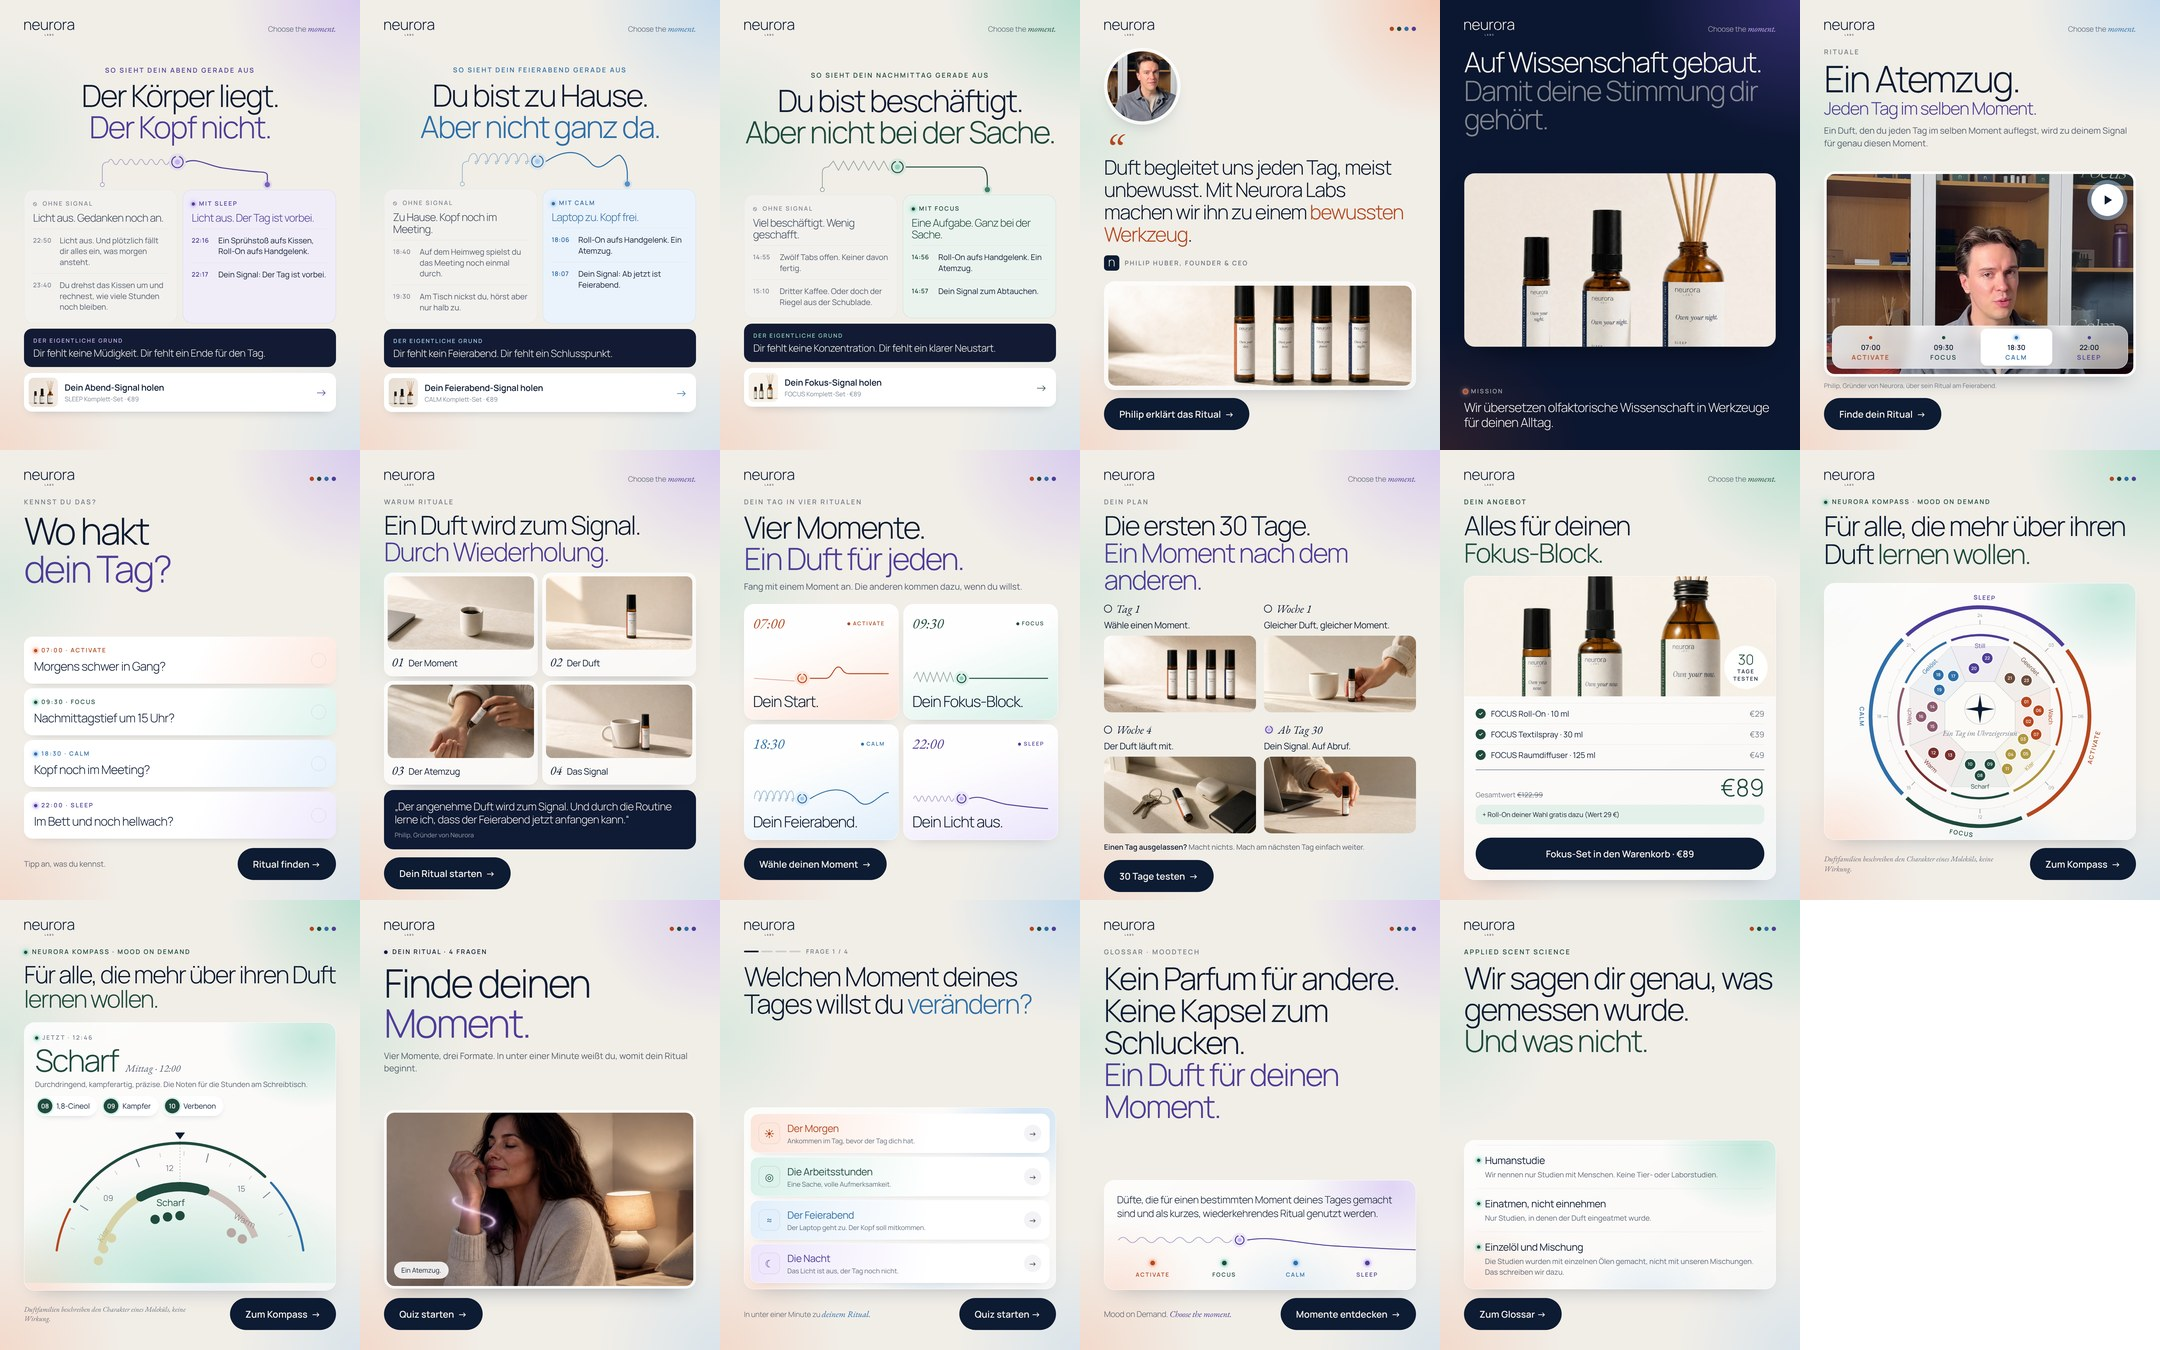
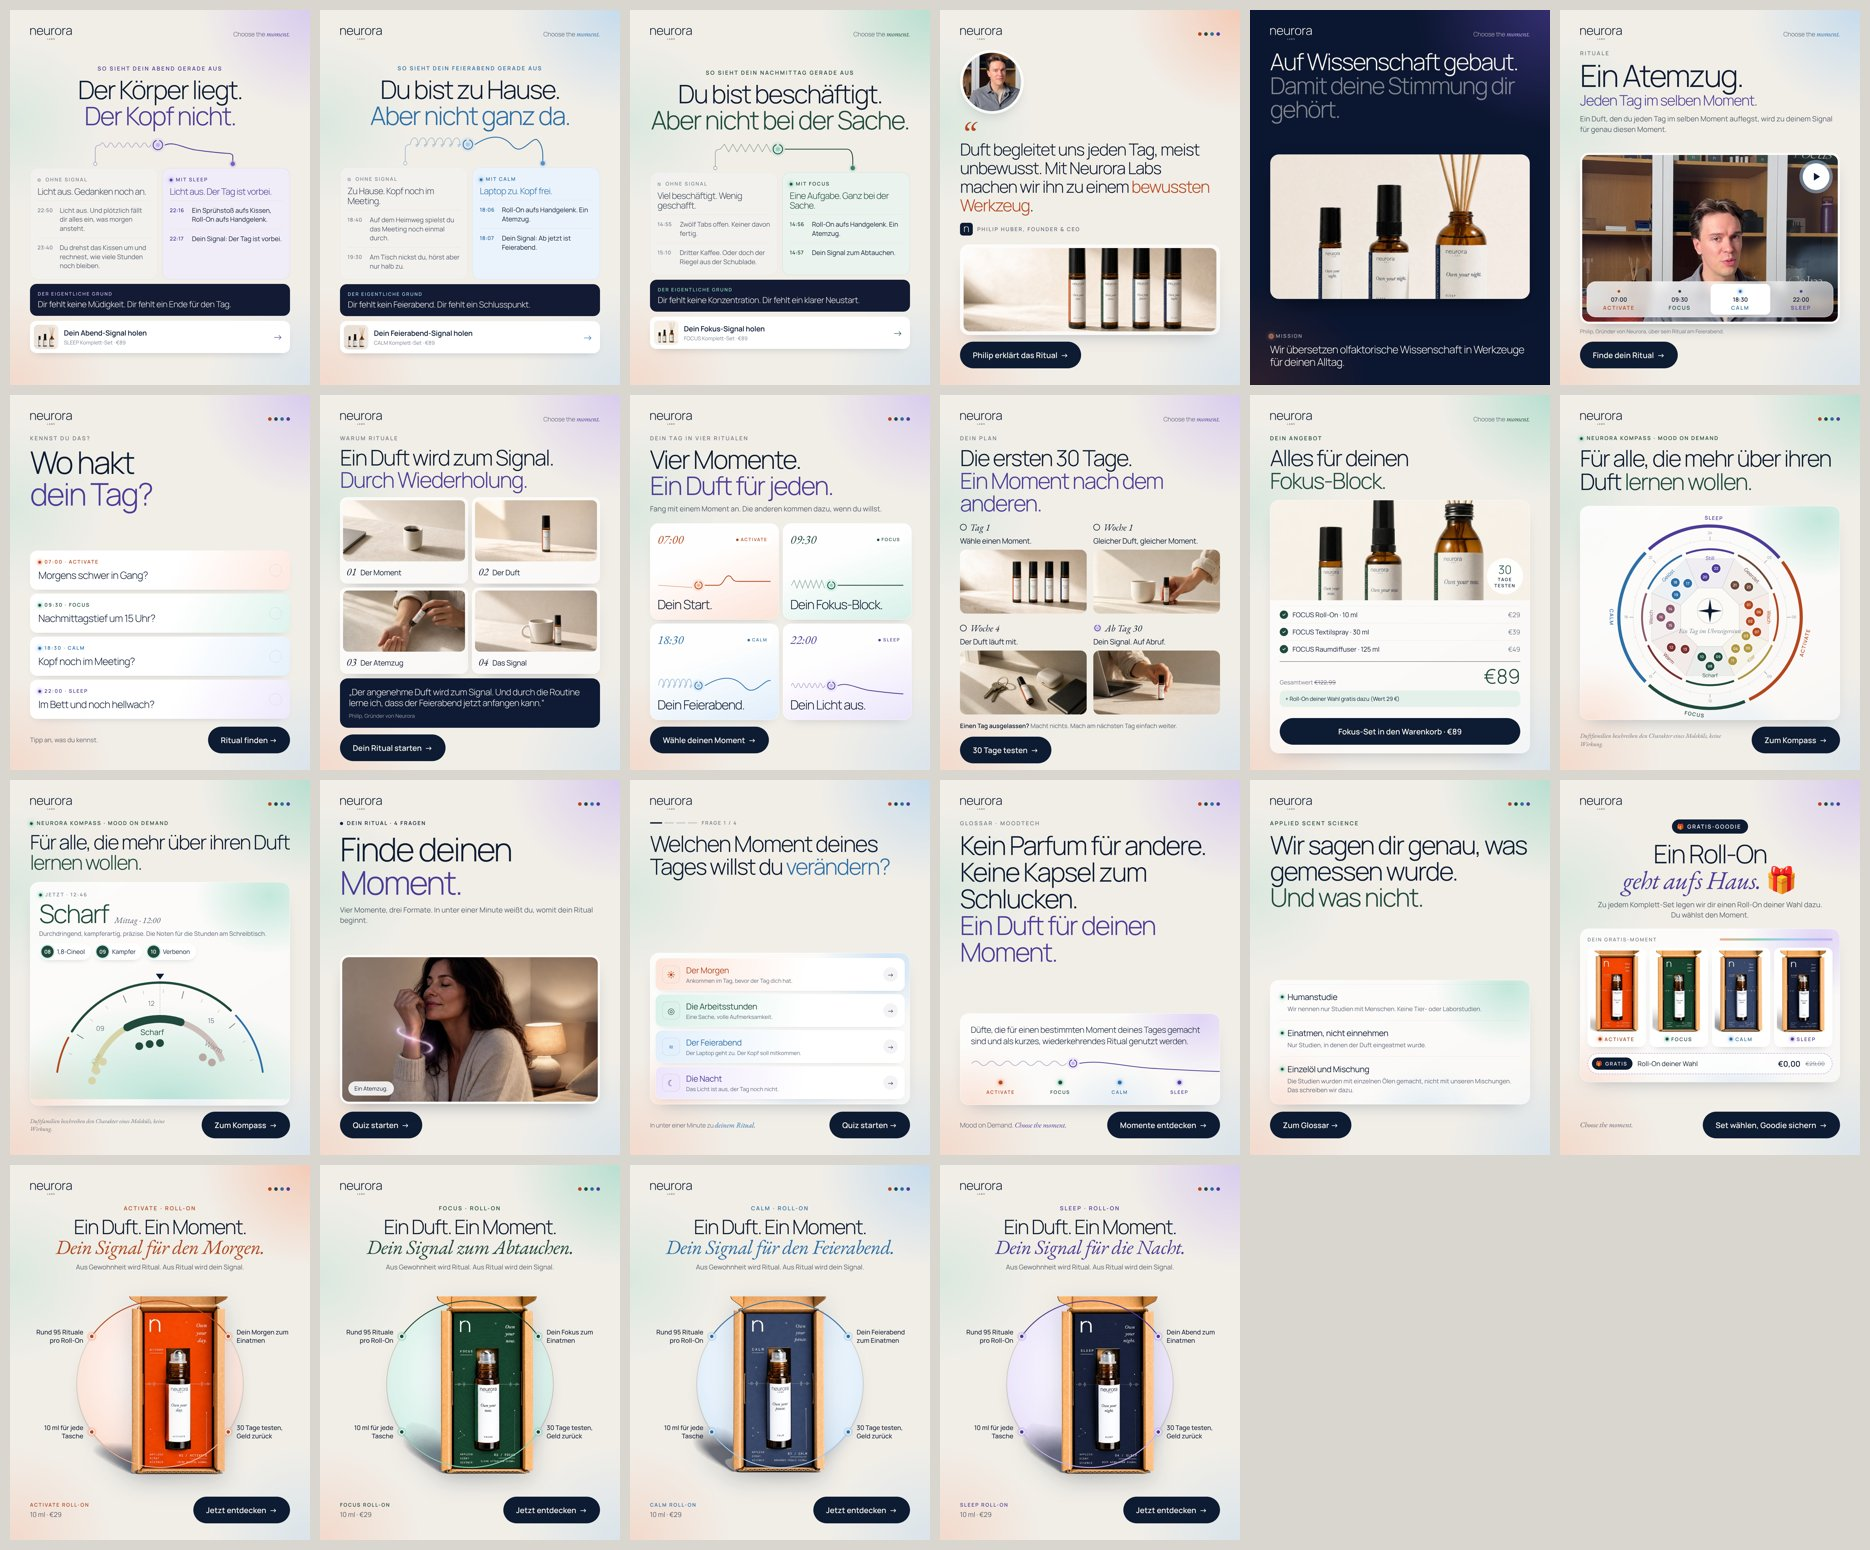
Meta ads round 3: Gratis-Goodie offer ad and Roll-On signal-ring series for all four states
Claude-Session: https://claude.ai/code/session_01QRoExmTLVyJJqyXzJd8417

diff --git a/ads/meta-rollout-2026-11/source/gen3.py b/ads/meta-rollout-2026-11/source/gen3.py
@@ -1,0 +1,109 @@
+#!/usr/bin/env python3
+"""Round 3: 17 Gratis-Goodie + 18 Roll-On series (all four states), Brand Book 2.0 look."""
+import math, os, sys
+from gen import S, A
+from gen2 import page, top, DOTS
+
+ROOT = os.path.dirname(os.path.abspath(__file__))
+ORDER = ("activate", "focus", "calm", "sleep")
+
+EXTRA = """
+.badge{display:inline-flex;align-items:center;gap:12px;background:#0D1B33;color:#F6F3EC;border-radius:999px;padding:12px 24px 12px 18px;font-size:20px;font-weight:600;letter-spacing:.16em;text-transform:uppercase}
+.emo{font-family:'Noto Color Emoji';letter-spacing:0;font-style:normal}
+h1 .it{letter-spacing:-.02em;font-weight:400}
+.moodbar{height:8px;border-radius:99px;background:linear-gradient(90deg,#F6AE8E,#8AD3BD 35%,#A3CCF0 66%,#C5B0F3)}
+"""
+
+def emo(e):
+    return f"<span class='emo'>{e}</span>"
+
+# ---------- 17 Gratis-Goodie ----------
+def ad_goodie(fmt):
+    st = "sleep"
+    tall = fmt == "916"
+    tiles = "".join(
+        f"<div style='flex:1;background:#fff;border-radius:22px;padding:10px 10px 16px;box-shadow:0 14px 30px -24px rgba(13,27,51,.45)'>"
+        f"<img src='{A}nr-box-{s}.jpg' style='display:block;width:100%;aspect-ratio:1/{1.9 if tall else 1.55};object-fit:cover;border-radius:14px'>"
+        f"<div style='display:flex;align-items:center;justify-content:center;gap:10px;margin-top:12px'>"
+        f"<span class='dot' style='--c:{S[s]['c']};--g:{S[s]['g']};width:11px;height:11px'></span>"
+        f"<span class='lbl' style='color:{S[s]['c']}'>{S[s]['name']}</span></div></div>" for s in ORDER)
+    body = (top(st, "dots")
+      + "<div class='center'>"
+        f"<span class='badge'>{emo('🎁')} Gratis-Goodie</span>"
+        f"<h1 style='margin-top:26px;font-size:{104 if tall else 92}px'>Ein Roll-On<span class='acc it'>geht aufs Haus. {emo('🎁')}</span></h1>"
+        "<p class='lead' style='margin:22px auto 0;max-width:820px'>Zu jedem Komplett-Set legen wir dir einen Roll-On deiner Wahl dazu. Du wählst den Moment.</p></div>"
+      + f"<div class='board glow' style='margin-top:{40 if tall else 30}px;padding:26px 26px 28px'>"
+        "<div style='display:flex;justify-content:space-between;align-items:center;margin-bottom:18px'>"
+        "<span class='lbl' style='color:rgba(13,27,51,.55)'>Dein Gratis-Moment</span><span class='moodbar' style='width:46%'></span></div>"
+        f"<div style='display:flex;gap:14px'>{tiles}</div>"
+        "<div style='display:flex;align-items:center;gap:18px;margin-top:22px;border:2px dashed #B9A6EE;border-radius:999px;padding:14px 26px 14px 14px;background:rgba(255,255,255,.7)'>"
+        f"<span class='badge' style='font-size:18px;padding:10px 18px 10px 14px'>{emo('🎁')} Gratis</span>"
+        "<span style='font-size:24px;flex:1'>Roll-On deiner Wahl</span>"
+        "<span style='font-size:28px;font-weight:600'>€0,00</span><s style='font-size:21px;color:rgba(13,27,51,.5)'>€29,00</s></div></div>"
+      + "<div class='grow'></div>"
+      + "<div style='display:flex;align-items:center;justify-content:space-between;gap:24px;margin-top:26px'>"
+        "<p class='it' style='font-size:26px;line-height:1.3;color:rgba(13,27,51,.65)'>Choose the moment.</p>"
+        "<div class='btn'>Set wählen, Goodie sichern &nbsp;→</div></div>")
+    return page("Gratis-Goodie", st, fmt, body, EXTRA)
+
+# ---------- 18 Roll-On: Signal ring (all states) ----------
+RO = {
+    "activate": dict(sig="Dein Signal für den Morgen.", air="Dein Morgen zum Einatmen"),
+    "focus":    dict(sig="Dein Signal zum Abtauchen.", air="Dein Fokus zum Einatmen"),
+    "calm":     dict(sig="Dein Signal für den Feierabend.", air="Dein Feierabend zum Einatmen"),
+    "sleep":    dict(sig="Dein Signal für die Nacht.", air="Dein Abend zum Einatmen"),
+}
+
+def ring(st, W, D):
+    c = S[st]; r = D / 2; cx = W / 2; cy = r + 30; H = D + 60
+    def pt(deg):
+        a = math.radians(deg); return cx + r * math.sin(a), cy - r * math.cos(a)
+    def arc(d0, d1):
+        x0, y0 = pt(d0); x1, y1 = pt(d1)
+        return f"M {x0:.1f} {y0:.1f} A {r} {r} 0 {1 if (d1 - d0) % 360 > 180 else 0} 1 {x1:.1f} {y1:.1f}"
+    calls = [(305, "Rund 95 Rituale pro Roll-On"), (235, "10 ml für jede Tasche"), (55, RO[st]["air"]), (125, "30 Tage testen, Geld zurück")]
+    svg = (f"<svg width='{W}' height='{H}' style='position:absolute;left:0;top:0;z-index:2;overflow:visible'>"
+           f"<circle cx='{cx}' cy='{cy}' r='{r}' fill='none' stroke='{c['c']}' stroke-opacity='.28' stroke-width='2'/>"
+           f"<path d='{arc(305, 55)}' fill='none' stroke='{c['c']}' stroke-width='3.5' stroke-linecap='round'/>"
+           f"<path d='{arc(125, 235)}' fill='none' stroke='{c['g']}' stroke-width='3.5' stroke-linecap='round'/>")
+    labels = ""
+    for deg, t in calls:
+        x, y = pt(deg)
+        svg += (f"<circle cx='{x:.1f}' cy='{y:.1f}' r='17' fill='{c['g']}' opacity='.45'/>"
+                f"<circle cx='{x:.1f}' cy='{y:.1f}' r='8' fill='{c['c']}' stroke='#fff' stroke-width='3'/>")
+        left = deg > 180
+        style = (f"right:{W - x + 30:.0f}px;text-align:right" if left else f"left:{x + 30:.0f}px")
+        labels += (f"<div style='position:absolute;{style};top:{y:.0f}px;transform:translateY(-50%);max-width:{x - 30 if left else W - x - 30:.0f}px;"
+                   f"font-size:23px;line-height:1.3;font-weight:500;z-index:3'>{t}</div>")
+    svg += "</svg>"
+    disc = (f"<div style='position:absolute;left:{cx - r + 4}px;top:{cy - r + 4}px;width:{D - 8}px;height:{D - 8}px;border-radius:50%;"
+            f"background:radial-gradient(circle at 50% 42%,#fff 0%,color-mix(in srgb,{c['g']} 30%,#fff) 62%,color-mix(in srgb,{c['g']} 55%,#fff) 100%);"
+            f"box-shadow:0 40px 80px -50px rgba(13,27,51,.45)'></div>")
+    bh = D + 40
+    img = (f"<img src='{A}nr-box-{st}-cut.png' style='position:absolute;left:50%;transform:translateX(-50%);top:{cy - bh / 2 + 4:.0f}px;height:{bh}px;"
+           f"z-index:1;filter:drop-shadow(0 30px 40px rgba(13,27,51,.18))'>")
+    return f"<div style='position:relative;width:{W}px;height:{H}px;margin:0 auto'>{disc}{img}{svg}{labels}</div>"
+
+def ad_rollon(st, fmt):
+    c = S[st]; tall = fmt == "916"
+    W = 924 if tall else 936
+    D = 640 if tall else 600
+    body = (top(st, "dots")
+      + "<div class='center'>"
+        f"<div class='eyebrow'>{c['name']} · Roll-On</div>"
+        f"<h1 style='margin-top:16px;font-size:{78 if tall else 72}px'>Ein Duft. Ein Moment.<span class='acc it'>{RO[st]['sig']}</span></h1>"
+        "<p class='lead' style='margin-top:18px;font-size:24px'>Aus Gewohnheit wird Ritual. Aus Ritual wird dein Signal.</p></div>"
+      + "<div class='grow'></div>" + ring(st, W, D) + "<div class='grow'></div>"
+      + "<div style='display:flex;align-items:center;justify-content:space-between;gap:24px'>"
+        f"<div><div class='lbl' style='color:var(--c)'>{c['name']} Roll-On</div><div style='font-size:24px;margin-top:6px;color:rgba(13,27,51,.7)'>10 ml · €29</div></div>"
+        "<div class='btn'>Jetzt entdecken &nbsp;→</div></div>")
+    return page(f"{c['name']} Roll-On", st, fmt, body, EXTRA)
+
+ADS3 = [("17-gratis-goodie", ad_goodie)] + [
+    (f"18{l}-rollon-{s}", (lambda s: (lambda f: ad_rollon(s, f)))(s)) for l, s in zip("abcd", ORDER)]
+
+if __name__ == "__main__":
+    for key, fn in ADS3:
+        for fmt in ("45", "916"):
+            open(os.path.join(ROOT, f"{key}_{fmt}.html"), "w").write(fn(fmt))
+    print(len(ADS3) * 2, "html files")

diff --git a/ads/meta-rollout-2026-11/source/cutout.py b/ads/meta-rollout-2026-11/source/cutout.py
@@ -1,0 +1,28 @@
+import sys, numpy as np
+from PIL import Image
+from collections import deque
+src, dst = sys.argv[1], sys.argv[2]
+im = np.asarray(Image.open(src).convert('RGB')).astype(np.float32)
+h, w, _ = im.shape
+lum = im.mean(2); sat = im.max(2) - im.min(2)
+cand = (lum > 150) & (sat < 22)
+reg = np.zeros((h, w), bool); q = deque()
+for y in range(h):
+    for x in (0, w - 1):
+        if cand[y, x] and not reg[y, x]: reg[y, x] = True; q.append((y, x))
+for x in range(w):
+    for y in (0, h - 1):
+        if cand[y, x] and not reg[y, x]: reg[y, x] = True; q.append((y, x))
+while q:
+    y, x = q.popleft()
+    for dy, dx in ((1,0),(-1,0),(0,1),(0,-1)):
+        ny, nx = y + dy, x + dx
+        if 0 <= ny < h and 0 <= nx < w and cand[ny, nx] and not reg[ny, nx]:
+            reg[ny, nx] = True; q.append((ny, nx))
+alpha = np.full((h, w), 255.0)
+a_bg = np.clip((244 - lum) * 2.6, 0, 150); a_bg[a_bg < 10] = 0
+alpha[reg] = a_bg[reg]
+rgb = im.copy(); rgb[reg] = [24, 30, 48]
+out = np.dstack([rgb, alpha]).astype(np.uint8)
+img = Image.fromarray(out, 'RGBA'); img = img.crop(img.getbbox()); img.save(dst)
+print(dst, img.size)

diff --git a/ads/meta-rollout-2026-11/README.md b/ads/meta-rollout-2026-11/README.md
@@ -26,3 +26,9 @@ Built 1:1 from the live webshop sections (theme NEURORA MOOD 6.1) and Brand Book
 | 16 | Wir sagen dir genau, was gemessen wurde. Und was nicht. | Brand | Cold · Skeptic trust (Glossar) |
 
 Before launch: claims marked in the strategy doc (§9) still need Claims Register clearance, in particular „auf Abruf" (06, 10, 13) and the study reference in 10.
+
+## Runde 3 (20.11.2026)
+
+- **17 Gratis-Goodie** (Retargeting): „Ein Roll-On geht aufs Haus. 🎁“. Zeigt die vier Geschenk-Boxen, ohne Schwellenwert, ohne Enddatum. Ziel: `/collections/sets`.
+- **18a–d Roll-On Signal-Ring** (alle vier Zustände): ersetzt die dunkle Anzeige „Kopf noch an? Licht aus, Duft an.“. Neue Botschaft „Ein Duft. Ein Moment. Dein Signal für …“. Creme, Frosted, Mood Dots, Signal-Line-Ring und die offene Box als Hero. Die Callouts bleiben, aus „4 ätherische Öle“ wird „Rund 95 Rituale pro Roll-On“.
+- Generator: `source/gen3.py`. Freisteller der Boxen: `source/cutout.py`.
